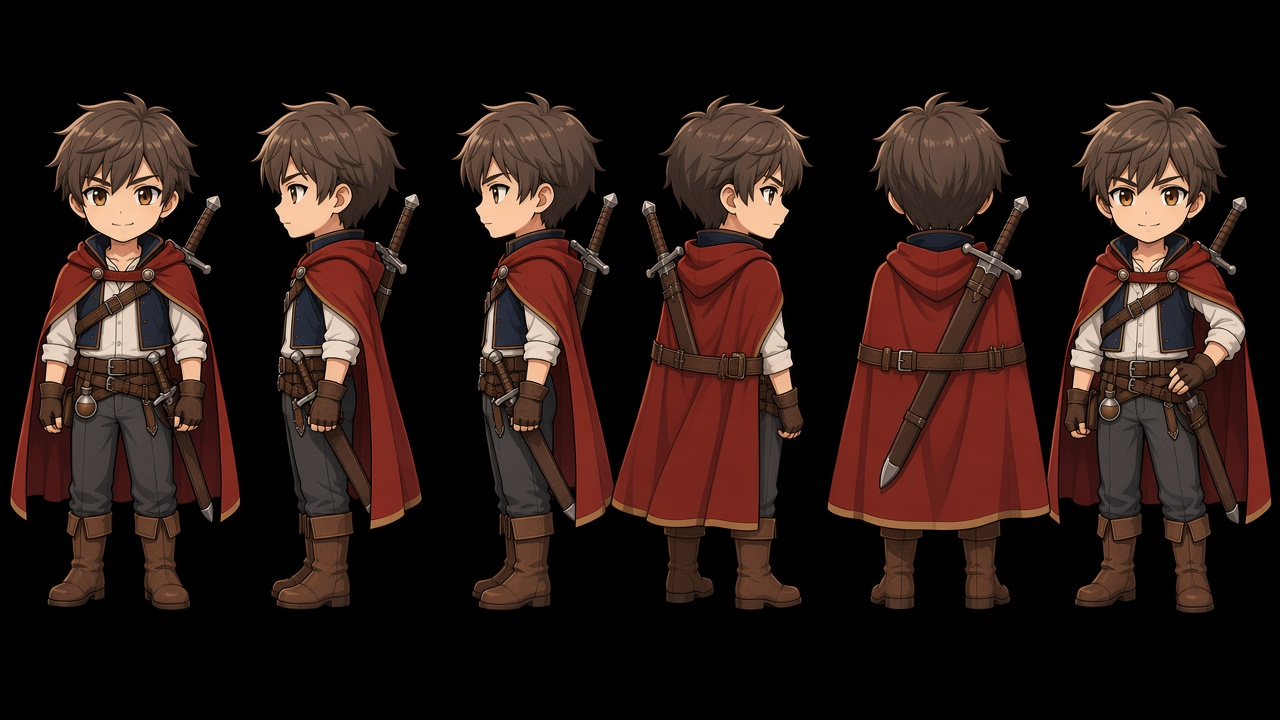
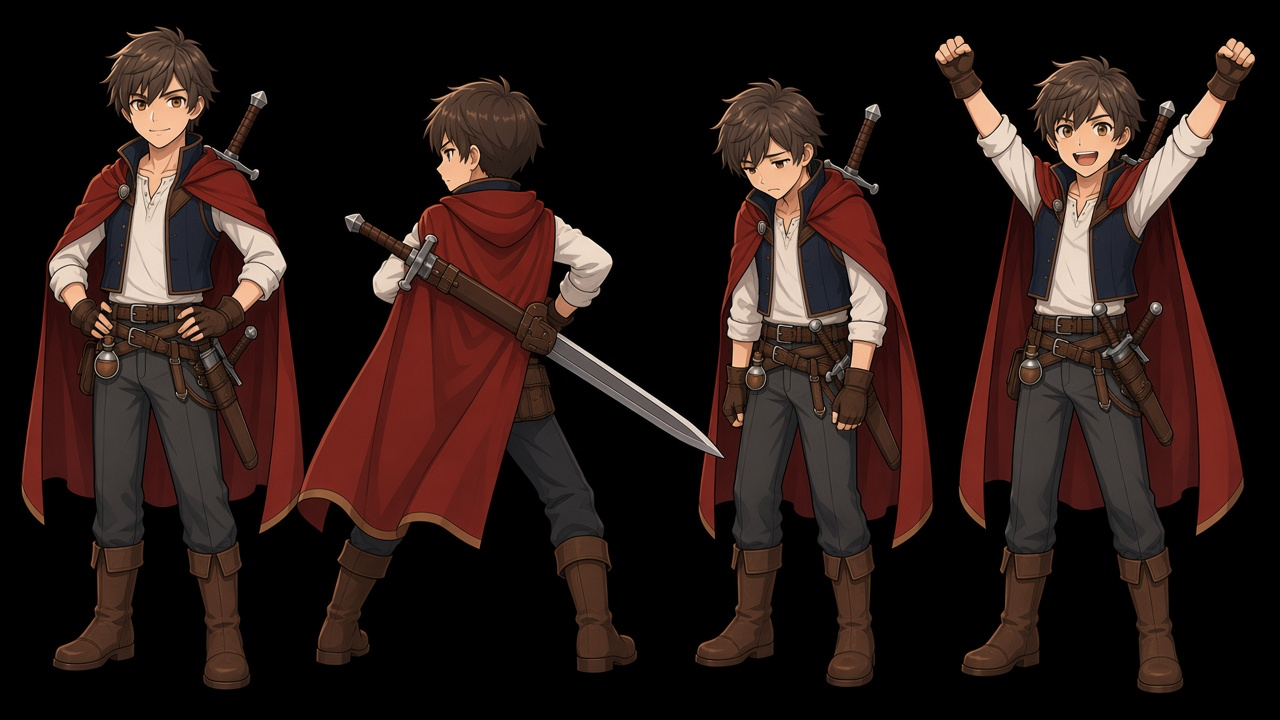
Reduce the warrior sheet to four poses and ready the battle sword.

diff --git a/index.html b/index.html
@@ -3138,8 +3138,8 @@
             <h2>設定資料</h2>
             <p class="album-meta">絵はここを正とする。ジョブが変わっても、性別は変えない。</p>
             <h3>戦士</h3>
-            <img class="sheet-art" src="warrior-f-sheet.jpg?v=9" alt="戦士。真正面、右向き、左向き、斜め後ろ、後ろ、手を腰。">
-            <p class="sheet-cap">左から、真正面、右向き、左向き、斜め後ろ、後ろ、決めポーズ。</p>
+            <img class="sheet-art" src="warrior-f-sheet.jpg?v=10" alt="戦士。正面の決めポーズ、戦闘、敗北、勝利。">
+            <p class="sheet-cap">左から、正面の決めポーズ、戦闘、敗北、勝利。</p>
             <h3>魔法使い・女・白</h3>
             <img class="sheet-art" src="mage-f-sheet.jpg?v=2" alt="女の魔法使い。真正面、右向き、左向き、斜め後ろ、後ろ、決めポーズ。">
             <p class="sheet-cap">左から、真正面、右向き、左向き、斜め後ろ、後ろ、決めポーズ。</p>
@@ -3150,7 +3150,7 @@
               <p><b>体</b>戦士は、4頭身。頭は全身のおよそ4分の1。描き直しても変えない。魔法使いは、いまの2頭身のまま。</p>
               <p><b>戦士</b>赤いマント、白いシャツ、紺の胴着、腰のベルトは一本。肩当ては無い。大きな剣は、ベルトでマントの上から背中に背負う。小さな剣は腰。盾とリュックは無い。</p>
               <p><b>魔法使い</b>女は白、男は黒。杖は同じで、先が一つの渦巻き。戦士の服は使わない。</p>
-              <p><b>戦闘</b>自分は、この戦士の背中。頭は後ろ。横顔は、見えても少しだけ。大きな剣は、ベルトでマントの上から背負う。敵はその奥。</p>
+              <p><b>戦闘</b>自分は、この戦士の背中。ポケモンと同じ構図。右を向き、武器を構える。表情はきりっとしている。敵はその奥。</p>
             </div>
             <h3>タイトル</h3>
             <img class="sheet-art" src="title-party.jpg" alt="タイトル。四人がわいわいしている。">
@@ -3326,7 +3326,7 @@
           const img = new Image();
           img.onload = () => { heroImage = img; resolve(img); };
           img.onerror = () => reject(new Error("hero"));
-          img.src = "hero-shoulder.png?v=17";
+          img.src = "hero-shoulder.png?v=18";
         });
       }
       return heroImageTask;
@@ -3345,7 +3345,7 @@
     }
 
     function heroShoulder() {
-      return `<div class="hero-shoulder"><img class="hero-fig" src="hero-shoulder.png?v=17" alt="戦士"></div>`;
+      return `<div class="hero-shoulder"><img class="hero-fig" src="hero-shoulder.png?v=18" alt="戦士"></div>`;
     }
 
     function startHeroIdle() {
